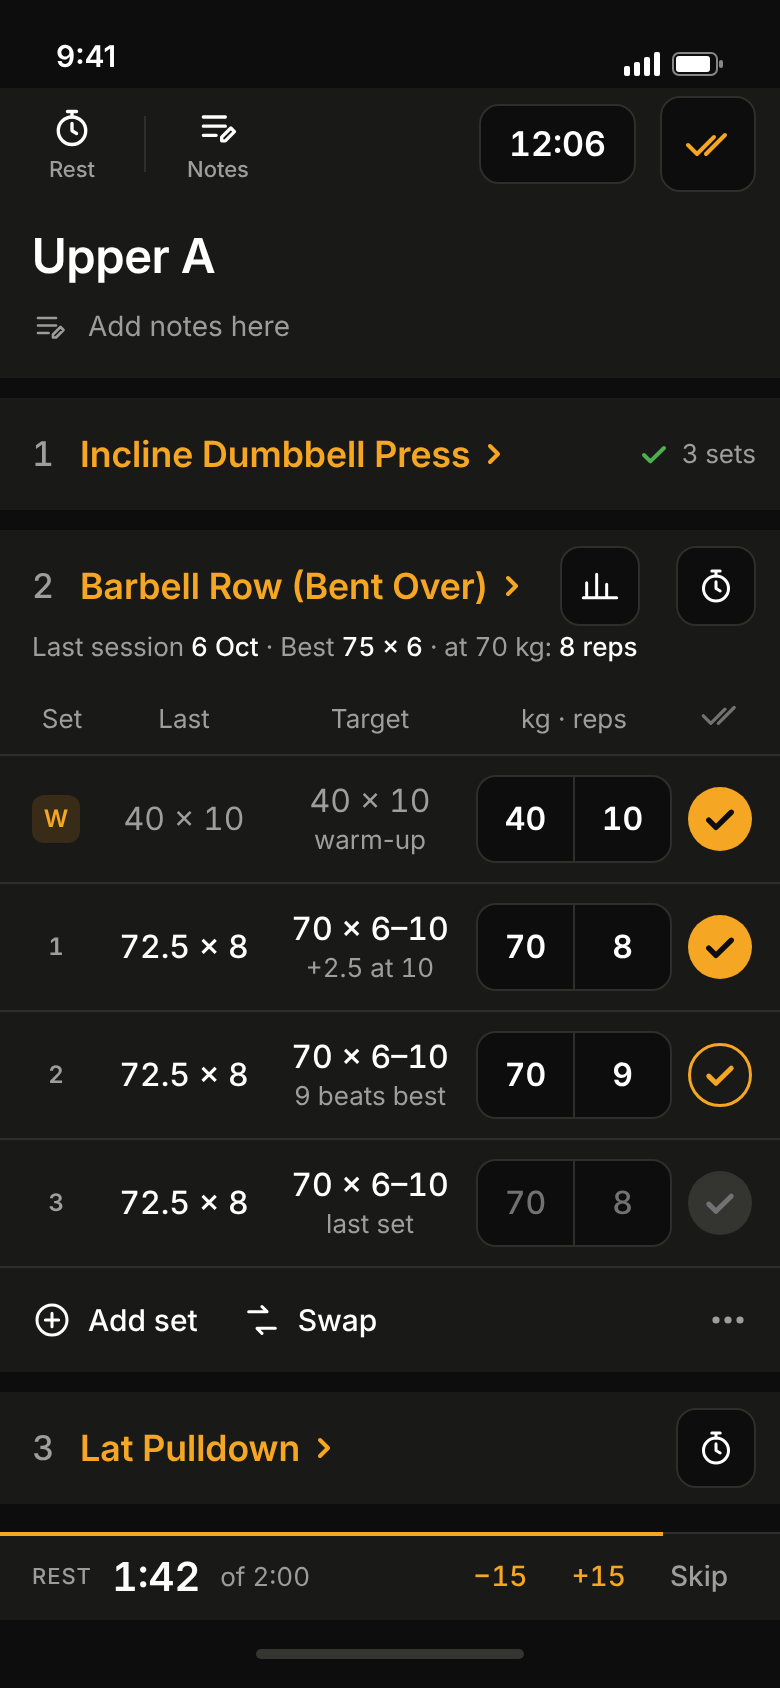
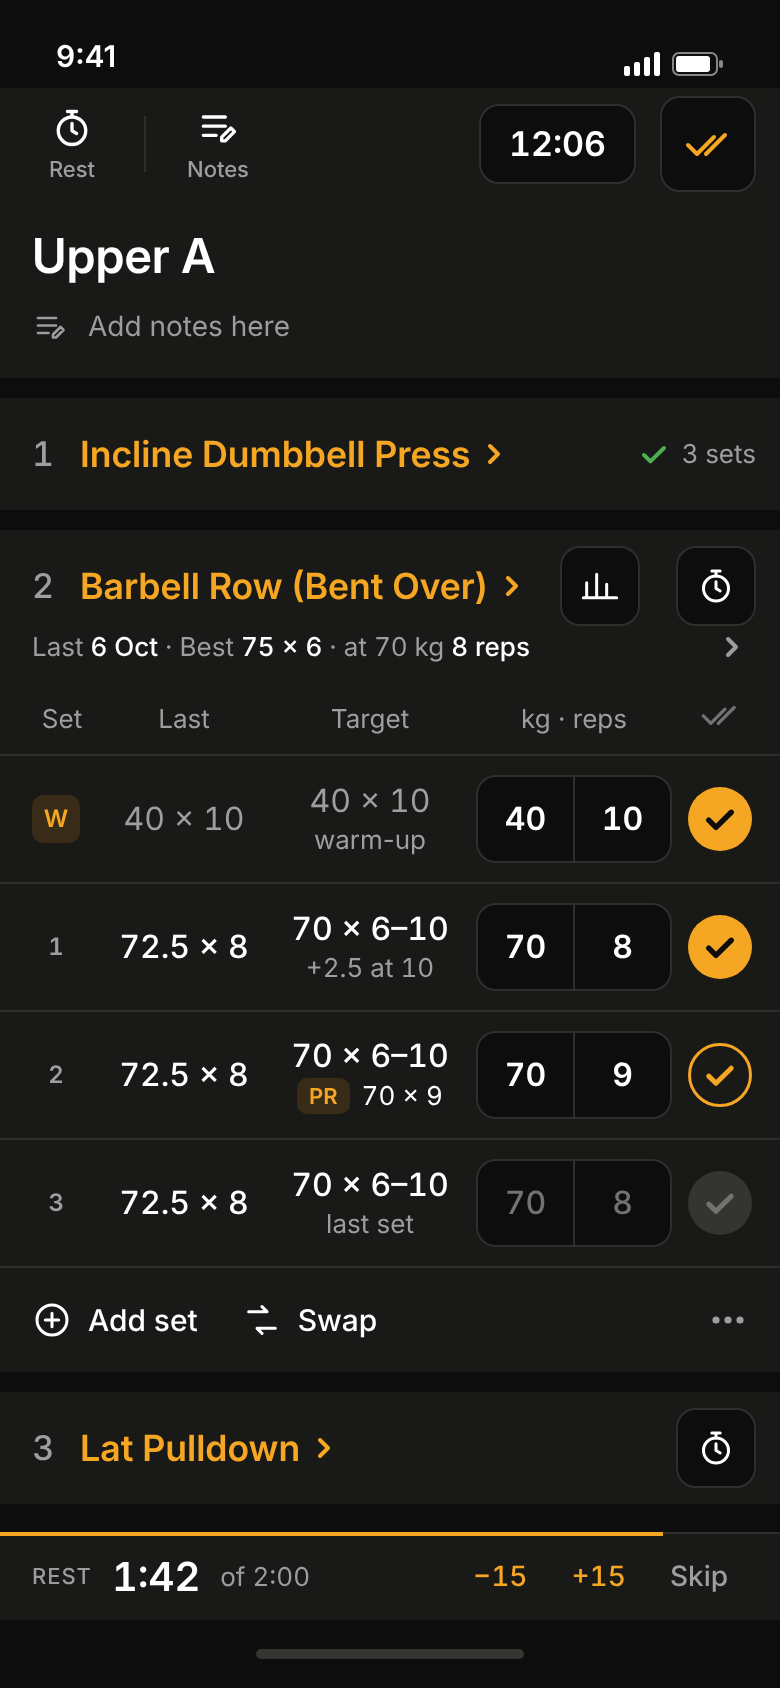
Workout logger rebuild: the PR threshold as a tag and the set that would be a record; the bests row tappable
Founder, 2026-10-07: the sentence "9 beats your best" was not elegant
enough and the bests badge should be tappable as JEFIT's 1RM badge is.
The next row's rule slot now carries a PR tag and the smallest set that
would be a record at that weight, "PR 70 x 9"; the bests row has a
chevron and opens the history and records sheet. Spec 2a updated, the
drawings re-rendered, the design reference and both page copies updated.

Changed region(s): [[0.1231, 0.3697, 0.8, 0.4005], [0.3692, 0.6161, 0.5846, 0.6777], [0.9231, 0.3697, 0.9538, 0.4005]]

diff --git a/docs/audit/workout-logger-audit-2026-10-06/12-design-reference.html b/docs/audit/workout-logger-audit-2026-10-06/12-design-reference.html
@@ -21,6 +21,10 @@
 .bc .bests{padding:0 16px 10px;margin-top:-6px;font-size:13px;line-height:17px;color:var(--t2)}
 .bc .bests b{color:var(--t1);font-weight:500}
 .bc .pr{display:inline-flex;align-items:center;height:18px;padding:0 6px;border-radius:5px;background:var(--abg);color:var(--a);font-size:11px;font-weight:600;margin-left:6px;vertical-align:middle}
+.bc .prt{display:inline-flex;align-items:center;gap:6px;font-size:13px;line-height:17px;color:var(--t1)}
+.bc .prt .pr{margin:0}
+.bc .bests{display:flex;align-items:center;gap:6px}
+.bc .bests .sp{flex:1}
 .bc .xh .idx{font-size:17px;font-weight:500;color:var(--t2);width:14px}
 .bc .xh .nm{font-size:18px;line-height:24px;font-weight:600;color:var(--a);display:flex;align-items:center;gap:4px;min-width:0;white-space:nowrap;overflow:hidden;text-overflow:ellipsis}
 .bc .xh .sq{margin-left:auto;width:40px;height:40px;display:flex;align-items:center;justify-content:center;background:var(--well);border:1px solid var(--wellbd);border-radius:10px;flex:0 0 auto}
@@ -107,11 +111,11 @@ html,body{margin:0;background:#0D0D0D} body{display:flex;gap:24px} .bc{border-ra
   <div class="band"></div>
   <div class="sec">
     <div class="xh"><span class="idx n">2</span><span class="nm">Barbell Row (Bent Over) <svg width="16" height="16" viewBox="0 0 16 16" fill="none" stroke="#F5A623" stroke-width="2" stroke-linecap="round" stroke-linejoin="round" style="flex:0 0 auto"><path d="M6 4l4 4-4 4"/></svg></span><span class="sq" style="margin-left:auto"><svg width="20" height="20" viewBox="0 0 24 24" fill="none" stroke="#FFFFFF" stroke-width="1.8" stroke-linecap="round" stroke-linejoin="round"><path d="M4 19V10M10 19V5M16 19v-8M22 19H2"/></svg></span><span class="sq" style="margin-left:8px"><svg width="20" height="20" viewBox="0 0 24 24" fill="none" stroke="#FFFFFF" stroke-width="1.8" stroke-linecap="round" stroke-linejoin="round"><circle cx="12" cy="13.5" r="7.5"/><path d="M12 9.5v4l2.5 1.5M9.5 3h5M12 3v3"/></svg></span></div>
-    <div class="bests n">Last session <b>6 Oct</b> · Best <b>75 × 6</b> · at 70 kg: <b>8 reps</b></div>
+    <div class="bests n"><span>Last <b>6 Oct</b> · Best <b>75 × 6</b> · at 70 kg <b>8 reps</b></span><span class="sp"></span><svg width="16" height="16" viewBox="0 0 16 16" fill="none" stroke="#9C9C9C" stroke-width="2" stroke-linecap="round" stroke-linejoin="round" style="flex:0 0 auto"><path d="M6 4l4 4-4 4"/></svg></div>
     <div class="cols"><span class="c">Set</span><span class="c">Last</span><span class="c">Target</span><span class="c">kg · reps</span><span class="c"><svg width="20" height="20" viewBox="0 0 24 24" fill="none" stroke="#727272" stroke-width="2" stroke-linecap="round" stroke-linejoin="round" style="margin:0 auto"><path d="M2 12.5l4.5 4.5L15 8.5"/><path d="M11 17l9.5-9.5"/></svg></span></div>
     <div class="row"><span class="mk w">W</span><div class="cell dim"><div class="v n">40 × 10</div></div><div class="cell dim"><div class="v n">40 × 10</div><div class="s">warm-up</div></div><div class="wells n"><span>40</span><span>10</span></div><span class="chk on"><svg width="18" height="18" viewBox="0 0 16 16" fill="none" stroke="#0D0D0D" stroke-width="2.4" stroke-linecap="round" stroke-linejoin="round"><path d="M3 8.5l3.2 3.2L13 5"/></svg></span></div>
     <div class="row"><span class="mk n">1</span><div class="cell"><div class="v n">72.5 × 8</div></div><div class="cell"><div class="v n">70 × 6–10</div><div class="s n">+2.5 at 10</div></div><div class="wells n"><span>70</span><span>8</span></div><span class="chk on"><svg width="18" height="18" viewBox="0 0 16 16" fill="none" stroke="#0D0D0D" stroke-width="2.4" stroke-linecap="round" stroke-linejoin="round"><path d="M3 8.5l3.2 3.2L13 5"/></svg></span></div>
-    <div class="row"><span class="mk n">2</span><div class="cell"><div class="v n">72.5 × 8</div></div><div class="cell"><div class="v n">70 × 6–10</div><div class="s n">9 beats best</div></div><div class="wells n"><span>70</span><span>9</span></div><span class="chk next"><svg width="18" height="18" viewBox="0 0 16 16" fill="none" stroke="#F5A623" stroke-width="2.2" stroke-linecap="round" stroke-linejoin="round"><path d="M3 8.5l3.2 3.2L13 5"/></svg></span></div>
+    <div class="row"><span class="mk n">2</span><div class="cell"><div class="v n">72.5 × 8</div></div><div class="cell"><div class="v n">70 × 6–10</div><div class="s n"><span class="prt"><span class="pr">PR</span>70 × 9</span></div></div><div class="wells n"><span>70</span><span>9</span></div><span class="chk next"><svg width="18" height="18" viewBox="0 0 16 16" fill="none" stroke="#F5A623" stroke-width="2.2" stroke-linecap="round" stroke-linejoin="round"><path d="M3 8.5l3.2 3.2L13 5"/></svg></span></div>
     <div class="row"><span class="mk n">3</span><div class="cell"><div class="v n">72.5 × 8</div></div><div class="cell"><div class="v n">70 × 6–10</div><div class="s">last set</div></div><div class="wells n ph"><span>70</span><span>8</span></div><span class="chk"><svg width="18" height="18" viewBox="0 0 16 16" fill="none" stroke="#727272" stroke-width="2.2" stroke-linecap="round" stroke-linejoin="round"><path d="M3 8.5l3.2 3.2L13 5"/></svg></span></div>
     <div class="ft"><span><svg width="20" height="20" viewBox="0 0 24 24" fill="none" stroke="#FFFFFF" stroke-width="1.8" stroke-linecap="round"><circle cx="12" cy="12" r="9"/><path d="M12 8v8M8 12h8"/></svg>Add set</span><span><svg width="20" height="20" viewBox="0 0 24 24" fill="none" stroke="#FFFFFF" stroke-width="1.8" stroke-linecap="round" stroke-linejoin="round"><path d="M4 7h11l-3-3M20 17H9l3 3"/></svg>Swap</span><span class="more"><svg width="20" height="20" viewBox="0 0 20 20" fill="#9E9E9E"><circle cx="4" cy="10" r="1.8"/><circle cx="10" cy="10" r="1.8"/><circle cx="16" cy="10" r="1.8"/></svg></span></div>
   </div>
@@ -134,11 +138,11 @@ html,body{margin:0;background:#0D0D0D} body{display:flex;gap:24px} .bc{border-ra
   <div class="band"></div>
   <div class="sec">
     <div class="xh"><span class="idx n">2</span><span class="nm">Barbell Row (Bent Over) <svg width="16" height="16" viewBox="0 0 16 16" fill="none" stroke="#F5A623" stroke-width="2" stroke-linecap="round" stroke-linejoin="round" style="flex:0 0 auto"><path d="M6 4l4 4-4 4"/></svg></span><span class="sq" style="margin-left:auto"><svg width="20" height="20" viewBox="0 0 24 24" fill="none" stroke="#FFFFFF" stroke-width="1.8" stroke-linecap="round" stroke-linejoin="round"><path d="M4 19V10M10 19V5M16 19v-8M22 19H2"/></svg></span><span class="sq" style="margin-left:8px"><svg width="20" height="20" viewBox="0 0 24 24" fill="none" stroke="#FFFFFF" stroke-width="1.8" stroke-linecap="round" stroke-linejoin="round"><circle cx="12" cy="13.5" r="7.5"/><path d="M12 9.5v4l2.5 1.5M9.5 3h5M12 3v3"/></svg></span></div>
-    <div class="bests n">Last session <b>6 Oct</b> · Best <b>75 × 6</b> · at 70 kg: <b>8 reps</b></div>
+    <div class="bests n"><span>Last <b>6 Oct</b> · Best <b>75 × 6</b> · at 70 kg <b>8 reps</b></span><span class="sp"></span><svg width="16" height="16" viewBox="0 0 16 16" fill="none" stroke="#9C9C9C" stroke-width="2" stroke-linecap="round" stroke-linejoin="round" style="flex:0 0 auto"><path d="M6 4l4 4-4 4"/></svg></div>
     <div class="cols"><span class="c">Set</span><span class="c">Last</span><span class="c">Target</span><span class="c">kg · reps</span><span class="c"><svg width="20" height="20" viewBox="0 0 24 24" fill="none" stroke="#727272" stroke-width="2" stroke-linecap="round" stroke-linejoin="round" style="margin:0 auto"><path d="M2 12.5l4.5 4.5L15 8.5"/><path d="M11 17l9.5-9.5"/></svg></span></div>
     <div class="row"><span class="mk w">W</span><div class="cell dim"><div class="v n">40 × 10</div></div><div class="cell dim"><div class="v n">40 × 10</div><div class="s">warm-up</div></div><div class="wells n"><span>40</span><span>10</span></div><span class="chk on"><svg width="18" height="18" viewBox="0 0 16 16" fill="none" stroke="#0D0D0D" stroke-width="2.4" stroke-linecap="round" stroke-linejoin="round"><path d="M3 8.5l3.2 3.2L13 5"/></svg></span></div>
     <div class="row"><span class="mk n">1</span><div class="cell"><div class="v n">72.5 × 8</div></div><div class="cell"><div class="v n">70 × 6–10</div><div class="s n">+2.5 at 10</div></div><div class="wells n"><span>70</span><span>8</span></div><span class="chk on"><svg width="18" height="18" viewBox="0 0 16 16" fill="none" stroke="#0D0D0D" stroke-width="2.4" stroke-linecap="round" stroke-linejoin="round"><path d="M3 8.5l3.2 3.2L13 5"/></svg></span></div>
-    <div class="row"><span class="mk n">2</span><div class="cell"><div class="v n">72.5 × 8</div></div><div class="cell"><div class="v n">70 × 6–10</div><div class="s n">9 beats best</div></div><div class="wells n"><span>70</span><span>9</span></div><span class="chk next"><svg width="18" height="18" viewBox="0 0 16 16" fill="none" stroke="#F5A623" stroke-width="2.2" stroke-linecap="round" stroke-linejoin="round"><path d="M3 8.5l3.2 3.2L13 5"/></svg></span></div>
+    <div class="row"><span class="mk n">2</span><div class="cell"><div class="v n">72.5 × 8</div></div><div class="cell"><div class="v n">70 × 6–10</div><div class="s n"><span class="prt"><span class="pr">PR</span>70 × 9</span></div></div><div class="wells n"><span>70</span><span>9</span></div><span class="chk next"><svg width="18" height="18" viewBox="0 0 16 16" fill="none" stroke="#F5A623" stroke-width="2.2" stroke-linecap="round" stroke-linejoin="round"><path d="M3 8.5l3.2 3.2L13 5"/></svg></span></div>
     <div class="row"><span class="mk n">3</span><div class="cell"><div class="v n">72.5 × 8</div></div><div class="cell"><div class="v n">70 × 6–10</div><div class="s">last set</div></div><div class="wells n ph"><span>70</span><span>8</span></div><span class="chk"><svg width="18" height="18" viewBox="0 0 16 16" fill="none" stroke="#727272" stroke-width="2.2" stroke-linecap="round" stroke-linejoin="round"><path d="M3 8.5l3.2 3.2L13 5"/></svg></span></div>
     <div class="ft"><span><svg width="20" height="20" viewBox="0 0 24 24" fill="none" stroke="#FFFFFF" stroke-width="1.8" stroke-linecap="round"><circle cx="12" cy="12" r="9"/><path d="M12 8v8M8 12h8"/></svg>Add set</span><span><svg width="20" height="20" viewBox="0 0 24 24" fill="none" stroke="#FFFFFF" stroke-width="1.8" stroke-linecap="round" stroke-linejoin="round"><path d="M4 7h11l-3-3M20 17H9l3 3"/></svg>Swap</span><span class="more"><svg width="20" height="20" viewBox="0 0 20 20" fill="#9E9E9E"><circle cx="4" cy="10" r="1.8"/><circle cx="10" cy="10" r="1.8"/><circle cx="16" cy="10" r="1.8"/></svg></span></div>
   </div>
@@ -158,11 +162,11 @@ html,body{margin:0;background:#0D0D0D} body{display:flex;gap:24px} .bc{border-ra
   <div class="scroll">
   <div class="sec">
     <div class="xh"><span class="idx n">2</span><span class="nm">Barbell Row (Bent Over) <svg width="16" height="16" viewBox="0 0 16 16" fill="none" stroke="#F5A623" stroke-width="2" stroke-linecap="round" stroke-linejoin="round" style="flex:0 0 auto"><path d="M6 4l4 4-4 4"/></svg></span><span class="sq" style="margin-left:auto"><svg width="20" height="20" viewBox="0 0 24 24" fill="none" stroke="#FFFFFF" stroke-width="1.8" stroke-linecap="round" stroke-linejoin="round"><path d="M4 19V10M10 19V5M16 19v-8M22 19H2"/></svg></span><span class="sq" style="margin-left:8px"><svg width="20" height="20" viewBox="0 0 24 24" fill="none" stroke="#FFFFFF" stroke-width="1.8" stroke-linecap="round" stroke-linejoin="round"><circle cx="12" cy="13.5" r="7.5"/><path d="M12 9.5v4l2.5 1.5M9.5 3h5M12 3v3"/></svg></span></div>
-    <div class="bests n">Last session <b>6 Oct</b> · Best <b>75 × 6</b> · at 70 kg: <b>8 reps</b></div>
+    <div class="bests n"><span>Last <b>6 Oct</b> · Best <b>75 × 6</b> · at 70 kg <b>8 reps</b></span><span class="sp"></span><svg width="16" height="16" viewBox="0 0 16 16" fill="none" stroke="#9C9C9C" stroke-width="2" stroke-linecap="round" stroke-linejoin="round" style="flex:0 0 auto"><path d="M6 4l4 4-4 4"/></svg></div>
     <div class="cols"><span class="c">Set</span><span class="c">Last</span><span class="c">Target</span><span class="c">kg · reps</span><span class="c"><svg width="20" height="20" viewBox="0 0 24 24" fill="none" stroke="#727272" stroke-width="2" stroke-linecap="round" stroke-linejoin="round" style="margin:0 auto"><path d="M2 12.5l4.5 4.5L15 8.5"/><path d="M11 17l9.5-9.5"/></svg></span></div>
     <div class="row"><span class="mk w">W</span><div class="cell dim"><div class="v n">40 × 10</div></div><div class="cell dim"><div class="v n">40 × 10</div><div class="s">warm-up</div></div><div class="wells n"><span>40</span><span>10</span></div><span class="chk on"><svg width="18" height="18" viewBox="0 0 16 16" fill="none" stroke="#0D0D0D" stroke-width="2.4" stroke-linecap="round" stroke-linejoin="round"><path d="M3 8.5l3.2 3.2L13 5"/></svg></span></div>
     <div class="row"><span class="mk n">1</span><div class="cell"><div class="v n">72.5 × 8</div></div><div class="cell"><div class="v n">70 × 6–10<span class="pr">PR</span></div><div class="s n">+2.5 at 10</div></div><div class="wells n"><span>70</span><span>9</span></div><span class="chk on"><svg width="18" height="18" viewBox="0 0 16 16" fill="none" stroke="#0D0D0D" stroke-width="2.4" stroke-linecap="round" stroke-linejoin="round"><path d="M3 8.5l3.2 3.2L13 5"/></svg></span></div>
-    <div class="row"><span class="mk n">2</span><div class="cell"><div class="v n">72.5 × 8</div></div><div class="cell"><div class="v n">70 × 6–10</div><div class="s n">10 beats best</div></div><div class="wells n edit"><span class="on">72.5</span><span>9</span></div><span class="chk next"><svg width="18" height="18" viewBox="0 0 16 16" fill="none" stroke="#F5A623" stroke-width="2.2" stroke-linecap="round" stroke-linejoin="round"><path d="M3 8.5l3.2 3.2L13 5"/></svg></span></div>
+    <div class="row"><span class="mk n">2</span><div class="cell"><div class="v n">72.5 × 8</div></div><div class="cell"><div class="v n">70 × 6–10</div><div class="s n"><span class="prt"><span class="pr">PR</span>70 × 10</span></div></div><div class="wells n edit"><span class="on">72.5</span><span>9</span></div><span class="chk next"><svg width="18" height="18" viewBox="0 0 16 16" fill="none" stroke="#F5A623" stroke-width="2.2" stroke-linecap="round" stroke-linejoin="round"><path d="M3 8.5l3.2 3.2L13 5"/></svg></span></div>
     <div class="row"><span class="mk n">3</span><div class="cell"><div class="v n">72.5 × 8</div></div><div class="cell"><div class="v n">70 × 6–10</div><div class="s">last set</div></div><div class="wells n ph"><span>70</span><span>8</span></div><span class="chk"><svg width="18" height="18" viewBox="0 0 16 16" fill="none" stroke="#727272" stroke-width="2.2" stroke-linecap="round" stroke-linejoin="round"><path d="M3 8.5l3.2 3.2L13 5"/></svg></span></div>
   </div>
   </div>
@@ -192,7 +196,7 @@ html,body{margin:0;background:#0D0D0D} body{display:flex;gap:24px} .bc{border-ra
   <div class="band"></div>
   <div class="sec">
     <div class="xh"><span class="idx n">2</span><span class="nm">Barbell Row (Bent Over) <svg width="16" height="16" viewBox="0 0 16 16" fill="none" stroke="#F5A623" stroke-width="2" stroke-linecap="round" stroke-linejoin="round" style="flex:0 0 auto"><path d="M6 4l4 4-4 4"/></svg></span><span class="sq" style="margin-left:auto"><svg width="20" height="20" viewBox="0 0 24 24" fill="none" stroke="#FFFFFF" stroke-width="1.8" stroke-linecap="round" stroke-linejoin="round"><path d="M4 19V10M10 19V5M16 19v-8M22 19H2"/></svg></span><span class="sq" style="margin-left:8px"><svg width="20" height="20" viewBox="0 0 24 24" fill="none" stroke="#FFFFFF" stroke-width="1.8" stroke-linecap="round" stroke-linejoin="round"><circle cx="12" cy="13.5" r="7.5"/><path d="M12 9.5v4l2.5 1.5M9.5 3h5M12 3v3"/></svg></span></div>
-    <div class="bests n">Last session <b>6 Oct</b> · Best <b>75 × 6</b> · at 70 kg: <b>8 reps</b></div>
+    <div class="bests n"><span>Last <b>6 Oct</b> · Best <b>75 × 6</b> · at 70 kg <b>8 reps</b></span><span class="sp"></span><svg width="16" height="16" viewBox="0 0 16 16" fill="none" stroke="#9C9C9C" stroke-width="2" stroke-linecap="round" stroke-linejoin="round" style="flex:0 0 auto"><path d="M6 4l4 4-4 4"/></svg></div>
   </div>
   <div class="scrim"></div>
   <div class="sheetp">

diff --git a/docs/audit/workout-logger-audit-2026-10-06/08-research-page.html b/docs/audit/workout-logger-audit-2026-10-06/08-research-page.html
@@ -207,7 +207,7 @@ table.cmp.tight td,table.cmp.tight th{padding:8px 8px}
 
 <h2>2. The twelve screens</h2>
 <p>Each caption states what is observed (sizes approximate, see method), then the layout model. Source is the exact store asset the crop was taken from.</p>
-<p class="note"><b>Repository copy.</b> This file loads each full store screenshot from Apple's image host by URL rather than carrying the crops, and references the drawings as files beside it; the published page carries the enlarged crops and the drawings inline.</p>
+<p class="note"><b>Repository copy.</b> Full store screenshots by URL and the drawings as files beside it; the published page carries the crops and the drawings inline.</p>
 <div class="grid">
 
 <figure class="shot"><img src="https://is1-ssl.mzstatic.com/image/thumb/PurpleSource211/v4/9e/20/11/9e2011c2-ef21-e716-c60a-5c2fe0b26297/a66b427f-5742-4ef6-9f1f-7fb2aeb5f927_screenshot1.png/640x1386bb.png" alt="Hevy active workout screen" loading="lazy">
@@ -614,7 +614,7 @@ table.cmp.tight td,table.cmp.tight th{padding:8px 8px}
 <li><b>Toolbar.</b> Rest and Notes as glyph-over-label tools; the session clock in a well; Finish as the amber double check in a well. Rest opens the full rest view (the countdown at 40 and the next set at 24, the far-distance view from section 5); whether it opens itself after Log is a setting.</li>
 <li><b>Session header.</b> "Upper A" at 24, a note line.</li>
 <li><b>Finished exercise</b> collapsed to its header with a green check and "3 sets". The active exercise expanded; the next exercise as its header. Tap a header to open it.</li>
-<li><b>Exercise header.</b> Index in grey, name at 18 in amber with the chevron (details and swap), the per-exercise rest button at the right. Under it the bests line (founder addition, 7 October): last session's date, the heaviest set ever, and the most reps ever at today's weight, so the number to beat is on screen before the set. A row that sets a record carries a small PR tag; the next row's rule slot says "9 beats your best" when a record is one rep away.</li>
+<li><b>Exercise header.</b> Index in grey, name at 18 in amber with the chevron (details and swap), the per-exercise rest button at the right. Under it the bests line (founder addition, 7 October): last session's date, the heaviest set ever, and the most reps ever at today's weight, so the number to beat is on screen before the set. A row that sets a record carries a small PR tag; the next row's rule slot carries a PR tag and the set that would be a record, "PR 70 × 9"; the bests row is tappable and opens the history and records sheet.</li>
 <li><b>Columns.</b> Set, Last, Target, kg · reps, and the tick-all glyph (logs every remaining set as planned, the one-tap default from section 10).</li>
 <li><b>Rows</b> at 64 with hairlines: W badge for the warm-up (only when one is logged), numbers for working sets, Last as last session's set, Target as the coach's numbers over the coach's rule, the joined wells, the check. Done rows: white values, amber check. The next set: the coach's numbers filled in white and an amber ring. Later sets: grey placeholders.</li>
 <li><b>Footer.</b> Add set, Swap, overflow.</li>

diff --git a/docs/audit/workout-logger-audit-2026-10-06/12-BUILD-SPEC.md b/docs/audit/workout-logger-audit-2026-10-06/12-BUILD-SPEC.md
@@ -111,9 +111,14 @@ record system `lib/workoutRecordLine.js` and `detectPR`):
    line (the retired routine est-max copy stays retired; the e1RM record
    lives in the PR toast and the records screens).
 3. The next row's Target rule slot carries the record threshold whenever
-   one exists for the row's weight: "9 reps beats your best" (from
-   `buildRecordLine`); otherwise the progression rule. Plain, numbers
-   first, no "you should", no "crush".
+   one exists for the row's weight, as a PR tag followed by the smallest
+   set that would be a record at that weight: "PR 70 × 9" (the best at
+   70 kg is 8, so 9 is a record); for a weight above the heaviest ever,
+   "PR 75 × 1". No sentence. Computed from the record system
+   (`buildRecordLine` and `detectPR`): the rep record at the weight, else
+   the weight record. Otherwise the slot shows the progression rule.
+   Founder, 2026-10-07: the first wording, "9 beats your best", was
+   rejected as not elegant enough; this is the replacement.
 4. A logged row that set a record shows a small "PR" tag after its values
    (`colors.primaryBg` fill, `colors.primary` text, `captionStrong`), the
    way the calm toast already marks it the moment it happens.
@@ -123,8 +128,9 @@ record system `lib/workoutRecordLine.js` and `detectPR`):
 
 Props added: `ExerciseSection` gets `bests` ({ lastDateLabel, heaviest:
 { weight, reps }, atWeight: { weight, reps } } or null) and renders the
-line when present; `SetRow` gets `record: boolean` for the tag and `last`
-may carry `{ text, stale: boolean }`.
+line when present; `SetRow` gets `record: boolean` for the tag on a logged row, `prTarget: { weight, reps } | null` for the
+threshold on the next row, and `last` may carry `{ text, stale: boolean }`. The bests line is a pressable row
+with a trailing chevron (JEFIT's 1RM badge is tappable; so is ours) and opens the HistorySheet.
 
 ## 2b. Founder addition, 2026-10-07: the JEFIT pattern, previous sets you can select and the PRs in full
 
